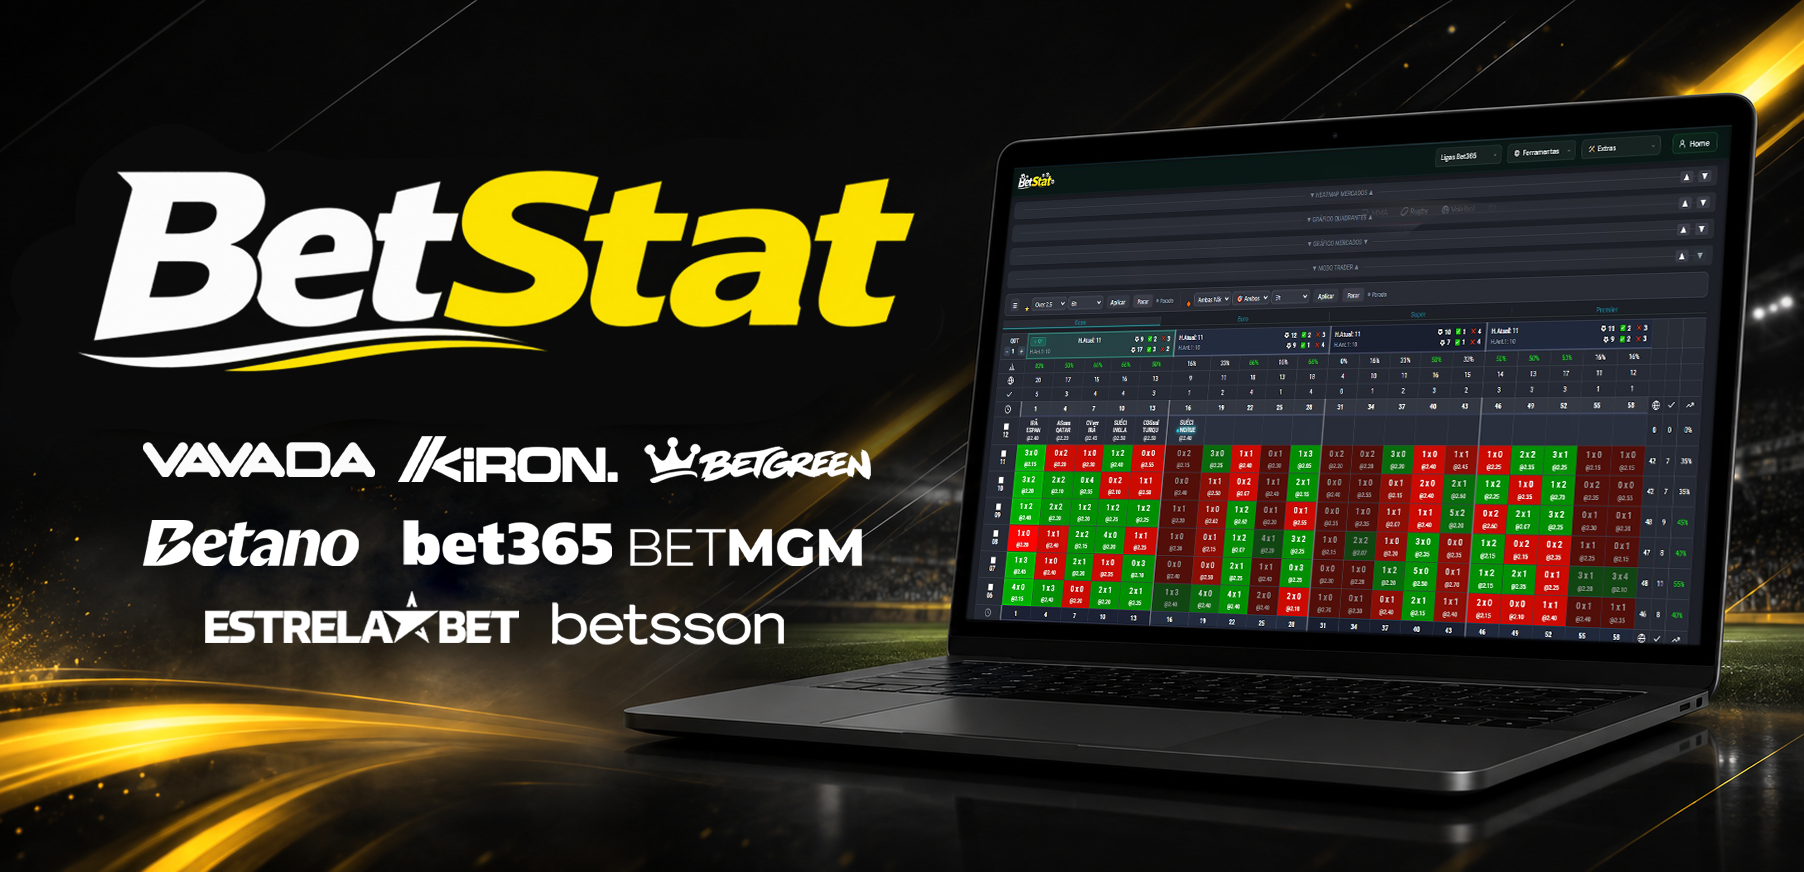
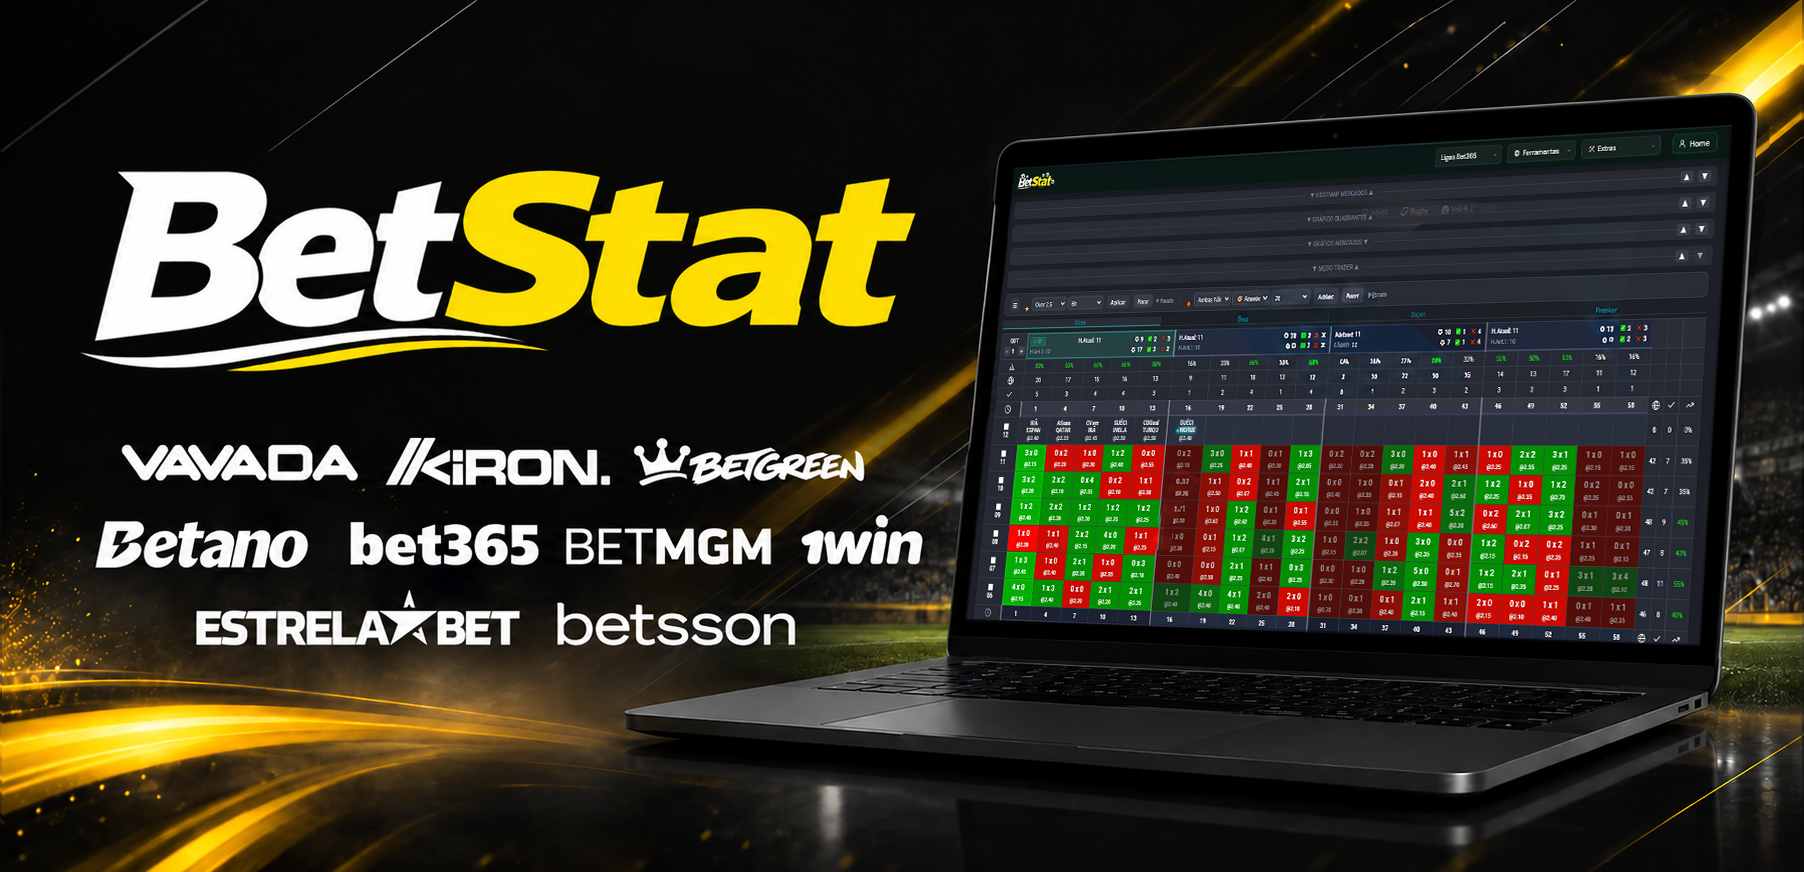
hghgfhfg

diff --git a/payment.html b/payment.html
@@ -5,7 +5,7 @@
 <meta name="viewport" content="width=device-width, initial-scale=1.0">
 <title>BetStat | Assinar</title>
 <link rel="icon" href="img/favicon.ico" type="image/x-icon">
-<meta name="description" content="BetStat - plataforma de análise para futebol virtual Betgreen, Vavada, BetMGM, Bet365, Betano, Kiron, Estrelabet e Betsson.">
+<meta name="description" content="BetStat - plataforma de análise para futebol virtual Betgreen, Vavada, BetMGM, Bet365, Betano, Kiron, Estrelabet, Betsson e 1Win.">
 <meta name="robots" content="index, follow">
 <link rel="preconnect" href="https://fonts.googleapis.com">
 <link rel="preconnect" href="https://fonts.gstatic.com" crossorigin>
@@ -174,7 +174,7 @@ footer{padding:26px 48px;border-top:1px solid var(--line);text-align:center;font
 <section class="hero">
   <div class="hero-tag"><span></span>Plataforma de Análise</div>
   <h1 class="hero-h1">Informação e análise para melhores <span class="hl">decisões</span></h1>
-  <p class="hero-p">Mais de 80 ferramentas de análise para Betgreen, Vavada, BetMGM, Bet365, Betano, Kiron, Estrelabet e Betsson, cobrindo futebol virtual, BacBo Live e Speedway. Estatísticas em tempo real e sinais automáticos via Telegram.</p>
+  <p class="hero-p">Mais de 80 ferramentas de análise para Betgreen, Vavada, BetMGM, Bet365, Betano, Kiron, Estrelabet, Betsson e 1Win, cobrindo futebol virtual, BacBo Live e Speedway. Estatísticas em tempo real e sinais automáticos via Telegram.</p>
   <div class="hero-actions">
     <a href="#pagamento" class="btn-primary">Assinar agora — R$ 32/mês</a>
     <a href="https://t.me/sitebetstat" target="_blank" class="btn-ghost">Entrar na comunidade</a>
@@ -197,6 +197,7 @@ footer{padding:26px 48px;border-top:1px solid var(--line);text-align:center;font
     <img src="img/betsson.png" alt="Betsson">
     <img src="img/kiron.png" alt="Kiron">
     <img src="img/estrela.png" alt="Estrelabet">
+    <img src="img/1win.png" alt="1Win">
     <img src="img/bacbo.png" alt="BacBo Live">
     <img src="img/speedway.png" alt="Speedway Betano">
   </div>
@@ -247,6 +248,7 @@ footer{padding:26px 48px;border-top:1px solid var(--line);text-align:center;font
         <div class="offer-item"><span class="offer-chk">✓</span>5 melhores ligas Kiron Futebol Virtual</div>
         <div class="offer-item"><span class="offer-chk">✓</span>4 melhores ligas Estrelabet Futebol Virtual</div>
         <div class="offer-item"><span class="offer-chk">✓</span>3 melhores ligas Betsson Futebol Virtual</div>
+        <div class="offer-item"><span class="offer-chk">✓</span>3 melhores ligas 1Win Futebol Virtual</div>
         <div class="offer-item"><span class="offer-chk">✓</span>BacBo Live</div>
         <div class="offer-item"><span class="offer-chk">✓</span>Speedway Betano</div>
       </div>
